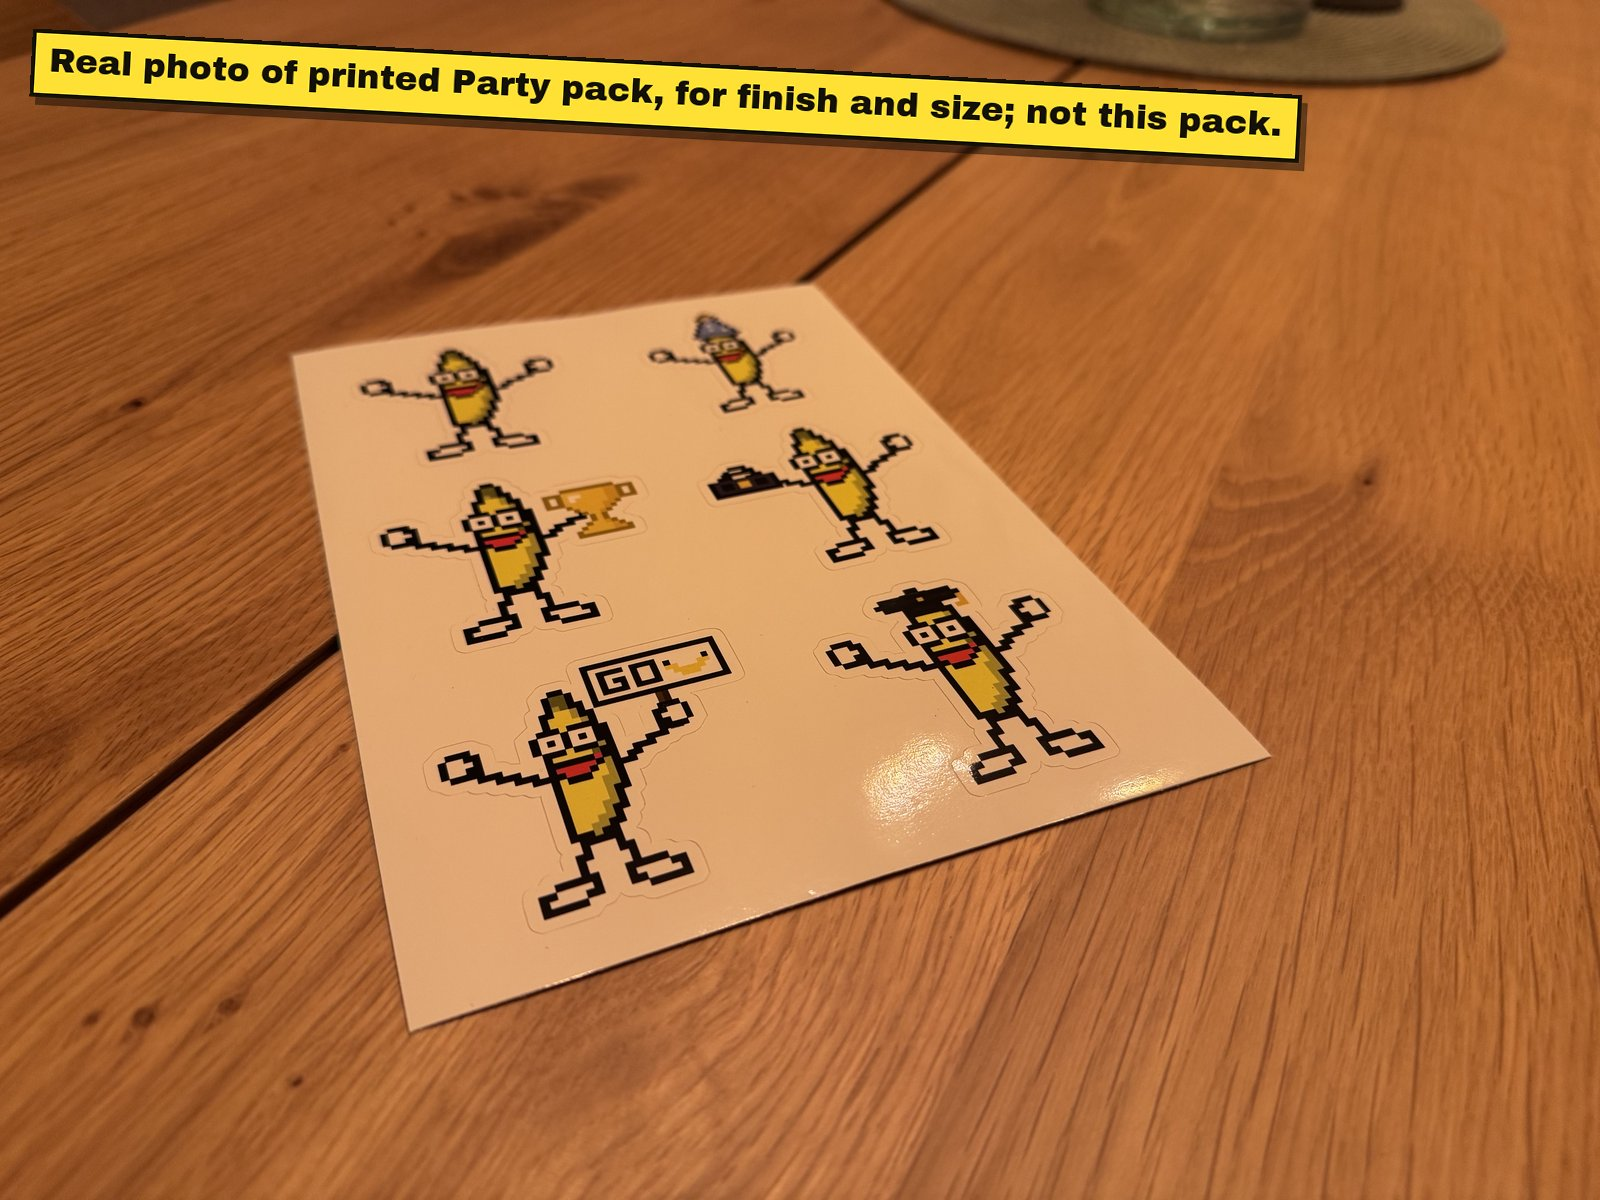
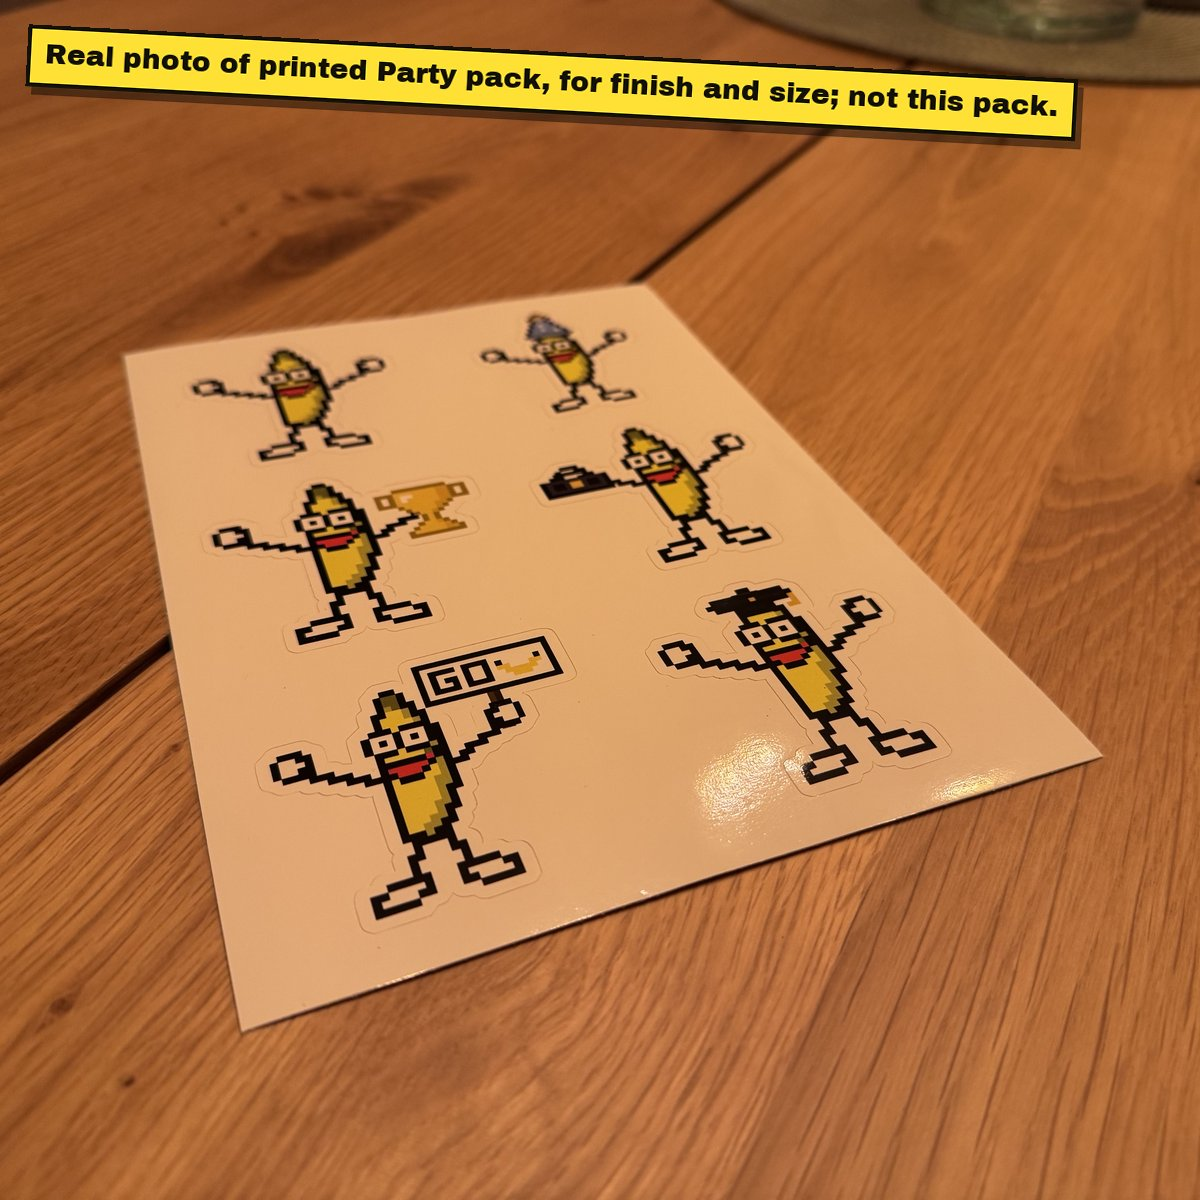
The product photos are square and fill the frame, and the Party pack's own page shows them stamped as its own

diff --git a/src/data/sticker-packs.js b/src/data/sticker-packs.js
@@ -49,7 +49,8 @@ export const packThumb = (n) => `/assets/packs/pack-${n}-thumb.webp`;       // 2
 export const packBanner = (n) => `/assets/packs/pack-${n}-banner.webp`;     // 1200×480, the GIF page's carousel tile
 export const packSheet = (n) => `/assets/packs/pack-${n}-sheet.webp`;       // the A5 as it prints
 // 📷 the real product photos (Trym's, of the printed Party pack; tools/build-pack-photos.py), on EVERY pack's page
-export const packPhotos = () => [1, 2, 3].map((i) => `/assets/packs/photos/packs-photo-${i}.jpg`);
+// the photos are of pack 4, so its own page gets the set stamped as its own; every other page the "not this pack" set
+export const packPhotos = (n) => [1, 2, 3].map((i) => `/assets/packs/photos/${n === 4 ? 'pack-4-photo' : 'packs-photo'}-${i}.jpg`);
 
 // Which pack a Shopify product is. Shopify builds the handle from the title
 // Trym types in Printful ("Dancing Banana Sticker Pack 3" →

diff --git a/tools/build-pack-photos.py b/tools/build-pack-photos.py
@@ -7,8 +7,10 @@ rig (src/data/copy/pack-photos.json), never from here.
 
     python tools/build-pack-photos.py
 
-Writes public/assets/packs/photos/packs-photo-<n>.jpg (1600 px wide, JPEG 85), one per original, in
-the order of PHOTOS below. The originals stay in tools/pack-photos/ and never ship.
+Writes two SQUARE sets (1200 px, JPEG 85 — the product frame is square, a 4:3 photo left white bands):
+  public/assets/packs/photos/packs-photo-<n>.jpg   stamped "not this pack" — shown on every other pack's page
+  public/assets/packs/photos/pack-4-photo-<n>.jpg  stamped as the pack's own — shown on the Party pack's page
+one per original, in the order of PHOTOS below. The originals stay in tools/pack-photos/ and never ship.
 """
 import io, json, os
 from PIL import Image, ImageDraw, ImageFont, ImageOps
@@ -18,9 +20,10 @@ ROOT = os.path.dirname(HERE)
 SRC = os.path.join(HERE, 'pack-photos')
 OUT = os.path.join(ROOT, 'public', 'assets', 'packs', 'photos')
 COPY = os.path.join(ROOT, 'src', 'data', 'copy', 'pack-photos.json')
-# the originals, in the order they show on a pack's page; the coin photo carries its own second line
-PHOTOS = [('pack-4-sleeve.jpeg', False), ('pack-4-sheet.jpeg', False), ('pack-4-coin.jpeg', True)]
-W = 1600
+# the originals, in the order they show on a pack's page; the coin photo carries its own second line; the third
+# number nudges the square crop's centre (a share of the width, + = right) so the sheet's corner is never cut
+PHOTOS = [('pack-4-sleeve.jpeg', False, 0.0), ('pack-4-sheet.jpeg', False, -0.02), ('pack-4-coin.jpeg', True, -0.04)]
+W = 1200
 
 
 def font(px):
@@ -45,25 +48,40 @@ def stamp(text, px, pad=18, angle=-3.0):
     return s.rotate(angle, expand=True, resample=Image.BICUBIC)
 
 
+def square(im, nudge):
+    """The centre square of a landscape photo, its centre nudged by a share of the width."""
+    side = min(im.size)
+    x0 = (im.width - side) // 2 + round(nudge * im.width)
+    x0 = max(0, min(im.width - side, x0))
+    y0 = (im.height - side) // 2
+    return im.crop((x0, y0, x0 + side, y0 + side))
+
+
+def bake(im, line, coin_line):
+    im = im.copy()
+    px = 30
+    st = stamp(line, px)
+    while st.width > W * 0.92 and px > 20:   # a long line shrinks until the sticker fits the photo
+        px -= 2; st = stamp(line, px)
+    im.paste(st, (24, 24), st)
+    if coin_line:
+        c = stamp(coin_line, 26, angle=2.5)
+        im.paste(c, (W - c.width - 24, im.height - c.height - 24), c)
+    return im
+
+
 def main():
     words = json.load(io.open(COPY, encoding='utf-8'))
-    line, coin = words['stamp'], words.get('coin', '')
+    coin = words.get('coin', '')
     os.makedirs(OUT, exist_ok=True)
-    for i, (name, has_coin) in enumerate(PHOTOS, 1):
+    for i, (name, has_coin, nudge) in enumerate(PHOTOS, 1):
         im = Image.open(os.path.join(SRC, name))
         im = ImageOps.exif_transpose(im).convert('RGB')
-        im = im.resize((W, round(im.height * W / im.width)), Image.LANCZOS)
-        px = 34
-        st = stamp(line, px)
-        while st.width > W * 0.92 and px > 22:   # a long line shrinks until the sticker fits the photo
-            px -= 2; st = stamp(line, px)
-        im.paste(st, (28, 28), st)
-        if has_coin and coin:
-            c = stamp(coin, 28, angle=2.5)
-            im.paste(c, (W - c.width - 28, im.height - c.height - 28), c)
-        out = os.path.join(OUT, 'packs-photo-%d.jpg' % i)
-        im.save(out, 'JPEG', quality=85, optimize=True, progressive=True)
-        print('  %s  %dx%d  %d KB' % (os.path.relpath(out, ROOT), im.width, im.height, os.path.getsize(out) // 1024))
+        im = square(im, nudge).resize((W, W), Image.LANCZOS)
+        for prefix, line in (('packs-photo', words['stamp']), ('pack-4-photo', words.get('stampOwn') or words['stamp'])):
+            out = os.path.join(OUT, '%s-%d.jpg' % (prefix, i))
+            bake(im, line, coin if has_coin else '').save(out, 'JPEG', quality=85, optimize=True, progressive=True)
+            print('  %s  %dx%d  %d KB' % (os.path.relpath(out, ROOT), W, W, os.path.getsize(out) // 1024))
 
 
 if __name__ == '__main__':

diff --git a/tools/shopify-product.py b/tools/shopify-product.py
@@ -11,7 +11,7 @@
     python tools/shopify-product.py create spec.json  # DRY RUN — prints the mutation
     python tools/shopify-product.py create spec.json --yes
     python tools/shopify-product.py publish <handle> --channel Headless --yes
-    python tools/shopify-product.py media <handle> <url> [<url>...] [--alt "text"] [--yes]   # attach product photos by public URL (skips ones already there)
+    python tools/shopify-product.py media <handle> <url> [<url>...] [--alt "text"] [--drop <name-prefix>] [--yes]   # attach product photos by public URL (skips ones already there; --drop removes old ones by name first)
 
 ⚠ CREATE IS DRY-RUN BY DEFAULT and always makes the product a DRAFT. This is a
 live store that takes real money; a script should never put a listing in front
@@ -208,11 +208,12 @@ def cmd_publish(handle, channel, go):
     print('  (status is still %s — flip it to ACTIVE in Shopify when it is ready to sell)' % p['status'])
 
 
-MEDIA_Q = """query($h:String!){ productByHandle(handle:$h){ id title media(first: 50) { edges { node { alt mediaContentType ... on MediaImage { image { url } } } } } } }"""
+MEDIA_Q = """query($h:String!){ productByHandle(handle:$h){ id title media(first: 50) { edges { node { id alt mediaContentType ... on MediaImage { image { url } } } } } } }"""
+MEDIA_D = """mutation($id:ID!, $ids:[ID!]!){ productDeleteMedia(productId:$id, mediaIds:$ids){ deletedMediaIds mediaUserErrors { field message } } }"""
 MEDIA_M = """mutation($id:ID!, $media:[CreateMediaInput!]!){ productCreateMedia(productId:$id, media:$media){ media { alt status } mediaUserErrors { field message } } }"""
 
 
-def cmd_media(handle, urls, alt, go):
+def cmd_media(handle, urls, alt, go, drop=None):
     """📷 Attach product photos by PUBLIC URL (Shopify fetches them) — the way round the Media drop zone that
     has no file input (memory: sticker-packs). A photo already on the product (same file name in its image
     url, or the same alt) is skipped, so the command is safe to re-run."""
@@ -222,6 +223,16 @@ def cmd_media(handle, urls, alt, go):
     if not p:
         sys.exit('✗ no product with handle ' + handle)
     have = [e['node'] for e in p['media']['edges']]
+    if drop:   # 🗑 the old copies go first (a re-bake with the same names cannot be told apart by name)
+        gone = [m for m in have if ((m.get('image') or {}).get('url') or '').split('/')[-1].lower().startswith(drop.lower())]
+        print('%s — %d media, %d to drop (%s*)' % (p['title'], len(have), len(gone), drop))
+        if gone and go:
+            r = ok(gql(MEDIA_D, {'id': p['id'], 'ids': [m['id'] for m in gone]}, tok), 'productDeleteMedia')
+            errs = r.get('mediaUserErrors') or []
+            if errs:
+                sys.exit('✗ ' + '; '.join(e['message'] for e in errs))
+            print('- dropped %d' % len(r.get('deletedMediaIds') or []))
+            have = [m for m in have if m not in gone]
     names = set()
     for m in have:
         img = (m.get('image') or {}).get('url') or ''
@@ -406,8 +417,9 @@ def main():
         cmd_create(a[1], go)
     elif cmd == 'media':
         alt = a[a.index('--alt') + 1] if '--alt' in a else ''
+        drop = a[a.index('--drop') + 1] if '--drop' in a else None
         urls = [x for x in a[2:] if x.startswith('http')]
-        cmd_media(a[1], urls, alt, go)
+        cmd_media(a[1], urls, alt, go, drop)
     elif cmd == 'publish':
         ch = a[a.index('--channel') + 1] if '--channel' in a else 'Headless'
         cmd_publish(a[1], ch, go)

diff --git a/tools/copy-briefs/pack-photos.md b/tools/copy-briefs/pack-photos.md
@@ -6,11 +6,13 @@ for size. These photos are shown on EVERY pack's page in the shop, because they 
 thing: the vinyl, the kiss-cut, the size. A buyer looking at pack #2 sees the Party pack in
 the photos, so every photo carries a small stamp that says so.
 
-Three fields:
+Four fields:
 
 - `stamp` — the one line baked onto every photo as a yellow sticker. It must say, plainly and
   shortly: this is a real photo of a printed pack (the Party pack), shown for the finish and
   the size, and it may not be the pack on this page. No marketing, no exclamation.
+- `stampOwn` — the same sticker on the Party pack's OWN page, where the photos are of the very
+  pack on the page: a real photo of this printed pack, for the finish and the size. Short, plain.
 - `coin` — a second, smaller sticker on the photo with the coin: the coin is there for size. A
   few words.
 - `alt` — the alt text of the photos: what is in the picture (a printed A5 sticker sheet of
